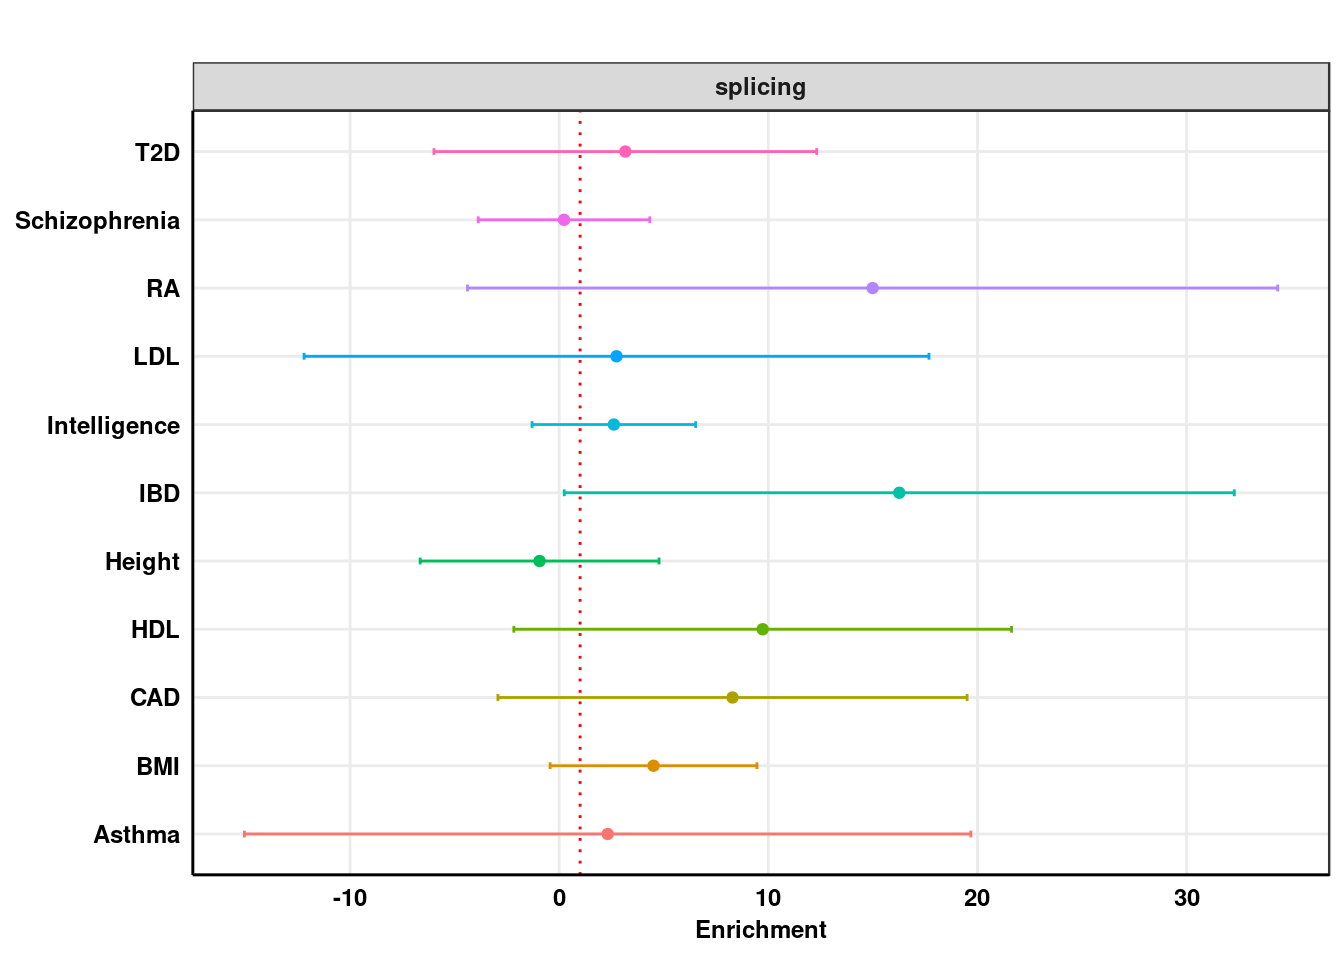
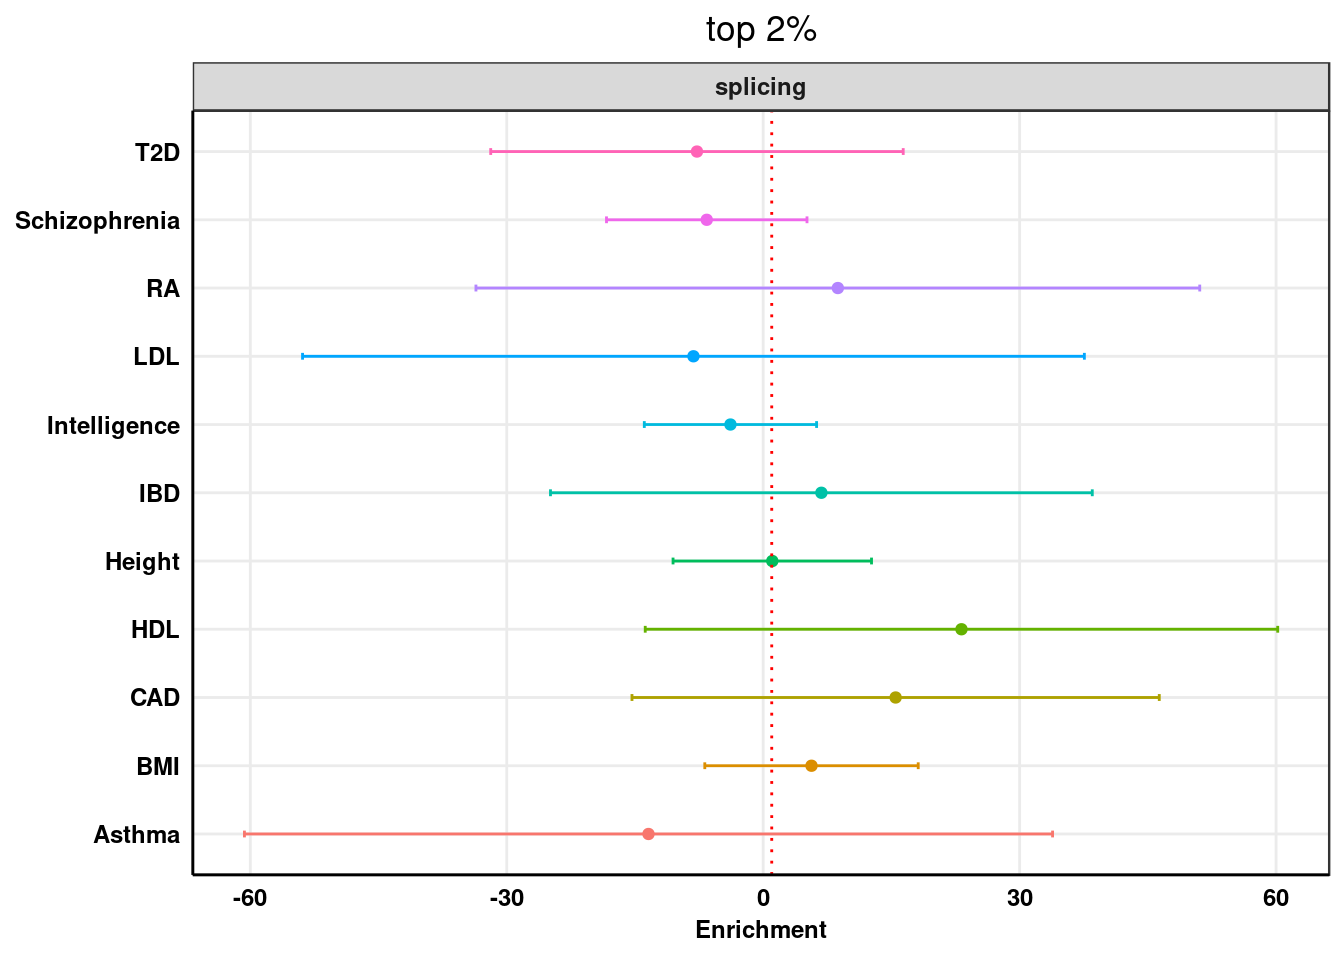
Build site.

diff --git a/docs/sldsc.html b/docs/sldsc.html
@@ -353,7 +353,7 @@ div.tocify {
 <div class="tab-content">
 <div id="summary" class="tab-pane fade in active">
 <p>
-<strong>Last updated:</strong> 2020-08-22
+<strong>Last updated:</strong> 2020-09-08
 </p>
 <p>
 <strong>Checks:</strong> <span class="glyphicon glyphicon-ok text-success" aria-hidden="true"></span> 7 <span class="glyphicon glyphicon-exclamation-sign text-danger" aria-hidden="true"></span> 0
@@ -444,16 +444,16 @@ This reproducible <a href="http://rmarkdown.rstudio.com">R Markdown</a> analysis
 <div class="panel panel-default">
 <div class="panel-heading">
 <p class="panel-title">
-<a data-toggle="collapse" data-parent="#workflowr-checks" href="#strongRepositoryversionstrongahrefhttpsgithubcomcdu8sldscsplicingtree905768d3e4973ebbc81ab7d1755184e7ccb97b9dtargetblank905768da"> <span class="glyphicon glyphicon-ok text-success" aria-hidden="true"></span> <strong>Repository version:</strong> <a href="https://github.com/cdu8/sldsc_splicing/tree/905768d3e4973ebbc81ab7d1755184e7ccb97b9d" target="_blank">905768d</a> </a>
+<a data-toggle="collapse" data-parent="#workflowr-checks" href="#strongRepositoryversionstrongahrefhttpsgithubcomcdu8sldscsplicingtreedc48f7040b5e7a2f9f46de739e7020160c7e859etargetblankdc48f70a"> <span class="glyphicon glyphicon-ok text-success" aria-hidden="true"></span> <strong>Repository version:</strong> <a href="https://github.com/cdu8/sldsc_splicing/tree/dc48f7040b5e7a2f9f46de739e7020160c7e859e" target="_blank">dc48f70</a> </a>
 </p>
 </div>
[2 lines of base64/hex data omitted]
 <div class="panel-body">
 <p>
 Great! You are using Git for version control. Tracking code development and connecting the code version to the results is critical for reproducibility.
 </p>
 <p>
-The results in this page were generated with repository version <a href="https://github.com/cdu8/sldsc_splicing/tree/905768d3e4973ebbc81ab7d1755184e7ccb97b9d" target="_blank">905768d</a>. See the <em>Past versions</em> tab to see a history of the changes made to the R Markdown and HTML files.
+The results in this page were generated with repository version <a href="https://github.com/cdu8/sldsc_splicing/tree/dc48f7040b5e7a2f9f46de739e7020160c7e859e" target="_blank">dc48f70</a>. See the <em>Past versions</em> tab to see a history of the changes made to the R Markdown and HTML files.
 </p>
 <p>
 Note that you need to be careful to ensure that all relevant files for the analysis have been committed to Git prior to generating the results (you can use <code>wflow_publish</code> or <code>wflow_git_commit</code>). workflowr only checks the R Markdown file, but you know if there are other scripts or data files that it depends on. Below is the status of the Git repository when the results were generated:
@@ -499,6 +499,40 @@ Message
 </tr>
 </thead>
 <tbody>
+<tr>
+<td>
+Rmd
+</td>
+<td>
+<a href="https://github.com/cdu8/sldsc_splicing/blob/dc48f7040b5e7a2f9f46de739e7020160c7e859e/analysis/sldsc.Rmd" target="_blank">dc48f70</a>
+</td>
+<td>
+cdu8
+</td>
+<td>
+2020-09-08
+</td>
+<td>
+wflow_publish(c(“analysis/sldsc.Rmd”))
+</td>
+</tr>
+<tr>
+<td>
+html
+</td>
+<td>
+<a href="https://rawcdn.githack.com/cdu8/sldsc_splicing/b91979a089188e4d3829a2b36543f970c2377bc7/docs/sldsc.html" target="_blank">b91979a</a>
+</td>
+<td>
+cdu8
+</td>
+<td>
+2020-08-22
+</td>
+<td>
+Build site.
+</td>
+</tr>
 <tr>
 <td>
 Rmd
@@ -661,7 +695,7 @@ S-LDSC analysis
 </div>
 <div id="introduction" class="section level2">
 <h2><strong>Introduction</strong></h2>
-<p>I ran S-LDSC on SPIDEX splicing annotations. The SPIDEX database was downloaded from ANNOVAR, and SNPs with a dpsi_zscore of &gt;= 1.645 (p-value of 0.05) were selected. I did this for 11 GWAS: Asthma, BMI, CAD, HDL, Height, Intelligence, IBD, LDL, RA, Schizophrenia, and Type II Diabetes. I used BaselineLD v1.1 for S-LDSC analysis.</p>
+<p>I ran S-LDSC on SPIDEX splicing annotations. The SPIDEX database was downloaded from ANNOVAR. I did this for 11 GWAS: Asthma, BMI, CAD, HDL, Height, Intelligence, IBD, LDL, RA, Schizophrenia, and Type II Diabetes. I used BaselineLD v1.1 for S-LDSC analysis.</p>
 <p>SPIDEX splicing annotations are located here: <code>RCC:/project2/xinhe/cdu/ldsc/annot/spidex</code> All GWAS in sumstats format are located here: <code>RCC:/project2/xinhe/cdu/GWAS/ldsc_format</code></p>
 <pre class="r"><code>annot_list &lt;- c(&quot;splicing&quot;)
 trait_name_list &lt;- c(&quot;Asthma&quot;, &quot;BMI&quot;,&quot;CAD&quot;,&quot;HDL&quot;,&quot;Height&quot;,&quot;IBD&quot;,&quot;Intelligence&quot;,&quot;LDL&quot;,&quot;RA&quot;,&quot;Schizophrenia&quot;,&quot;T2D&quot;)</code></pre>
@@ -760,25 +794,34 @@ combine_sldsc_traits &lt;- function(trait_name_list, dir_results, baseline, topX
 dir_results &lt;- &quot;/project2/xinhe/cdu/ldsc/results/splicing&quot;
 
 #top5
-result_sLDSC_top5 &lt;- combine_sldsc_traits(trait_name_list, dir_results, baseline, &quot;top5&quot;, &quot;hg19_spidex_0.05&quot;)
+result_sLDSC_top5 &lt;- combine_sldsc_traits(trait_name_list, dir_results, baseline, &quot;top5_filt&quot;, &quot;hg19_spidex_0.05_filt&quot;)
 result_sLDSC_top5$Category &lt;- factor(result_sLDSC_top5$Category, levels = rev(annot_list) )
 result_sLDSC_top5$Color &lt;- factor(result_sLDSC_top5$Disease, levels = trait_name_list)
 
 #top2
-result_sLDSC_top2 &lt;- combine_sldsc_traits(trait_name_list, dir_results, baseline, &quot;top2&quot;, &quot;hg19_spidex_0.02&quot;)
+result_sLDSC_top2 &lt;- combine_sldsc_traits(trait_name_list, dir_results, baseline, &quot;top2_filt&quot;, &quot;hg19_spidex_0.02_filt&quot;)
 result_sLDSC_top2$Category &lt;- factor(result_sLDSC_top2$Category, levels = rev(annot_list) )
 result_sLDSC_top2$Color &lt;- factor(result_sLDSC_top2$Disease, levels = trait_name_list)
 
 #top10
-result_sLDSC_top10 &lt;- combine_sldsc_traits(trait_name_list, dir_results, baseline, &quot;top10&quot;, &quot;hg19_spidex_0.10&quot;)
+result_sLDSC_top10 &lt;- combine_sldsc_traits(trait_name_list, dir_results, baseline, &quot;top10_filt&quot;, &quot;hg19_spidex_0.10_filt&quot;)
 result_sLDSC_top10$Category &lt;- factor(result_sLDSC_top10$Category, levels = rev(annot_list) )
 result_sLDSC_top10$Color &lt;- factor(result_sLDSC_top10$Disease, levels = trait_name_list)</code></pre>
-<div id="top-5-of-spidex-snps" class="section level3">
-<h3>Top 5% of SPIDEX SNPs</h3>
-<pre class="r"><code>DT::datatable(format(result_sLDSC_top5[,1:8], digits = 2), options = list(scrollX = TRUE, keys = TRUE),rownames = F)</code></pre>
+<div id="data-tables" class="section level3">
+<h3>Data Tables</h3>
+<pre class="r"><code>DT::datatable(format(result_sLDSC_top2[,1:8], digits = 2), options = list(scrollX = TRUE, keys = TRUE),rownames = F, caption = &#39;Table 1. Top 2%&#39;)</code></pre>
 <div id="htmlwidget-578d03fe88b24cf1b205" style="width:100%;height:auto;" class="datatables html-widget"></div>
-<script type="application/json" data-for="htmlwidget-578d03fe88b24cf1b205">{"x":{"filter":"none","data":[["Asthma","BMI","CAD","HDL","Height","IBD","Intelligence","LDL","RA","Schizophrenia","T2D"],["splicing","splicing","splicing","splicing","splicing","splicing","splicing","splicing","splicing","splicing","splicing"],["0.005","0.005","0.005","0.005","0.005","0.005","0.005","0.005","0.005","0.005","0.005"],[" 0.0115"," 0.0224"," 0.0412"," 0.0484","-0.0047"," 0.0809"," 0.0130"," 0.0136"," 0.0746"," 0.0012"," 0.0157"],["0.0441","0.0126","0.0285","0.0302","0.0145","0.0407","0.0099","0.0379","0.0492","0.0104","0.0232"],[" 2.32"," 4.51"," 8.29"," 9.73","-0.94","16.26"," 2.61"," 2.74","14.99"," 0.23"," 3.16"],["8.9","2.5","5.7","6.1","2.9","8.2","2.0","7.6","9.9","2.1","4.7"],["0.881","0.164","0.205","0.157","0.508","0.061","0.420","0.815","0.154","0.714","0.642"]],"container":"<table class=\"display\">\n  <thead>\n    <tr>\n      <th>Disease<\/th>\n      <th>Category<\/th>\n      <th>Prop._SNPs<\/th>\n      <th>Prop._h2<\/th>\n      <th>Prop._h2_std_error<\/th>\n      <th>Enrichment<\/th>\n      <th>Enrichment_std_error<\/th>\n      <th>Enrichment_p<\/th>\n    <\/tr>\n  <\/thead>\n<\/table>","options":{"scrollX":true,"keys":true,"order":[],"autoWidth":false,"orderClasses":false}},"evals":[],"jsHooks":[]}</script>
-<pre class="r"><code>ggplot_enrichment(result_sLDSC_top5, title = &quot;&quot;)</code></pre>
+<script type="application/json" data-for="htmlwidget-578d03fe88b24cf1b205">{"x":{"filter":"none","caption":"<caption>Table 1. Top 2%<\/caption>","data":[["Asthma","BMI","CAD","HDL","Height","IBD","Intelligence","LDL","RA","Schizophrenia","T2D"],["splicing","splicing","splicing","splicing","splicing","splicing","splicing","splicing","splicing","splicing","splicing"],["0.0012","0.0012","0.0012","0.0012","0.0012","0.0012","0.0012","0.0012","0.0012","0.0012","0.0012"],["-0.0160"," 0.0067"," 0.0185"," 0.0277"," 0.0013"," 0.0081","-0.0046","-0.0097"," 0.0104","-0.0079","-0.0092"],["0.0288","0.0076","0.0188","0.0225","0.0071","0.0193","0.0061","0.0278","0.0258","0.0071","0.0147"],["-13.4","  5.7"," 15.5"," 23.2","  1.1","  6.8"," -3.8"," -8.2","  8.7"," -6.6"," -7.7"],["24.1"," 6.4","15.7","18.9"," 5.9","16.2"," 5.1","23.3","21.6"," 6.0","12.3"],["0.55","0.47","0.36","0.25","0.99","0.72","0.35","0.69","0.72","0.20","0.48"]],"container":"<table class=\"display\">\n  <thead>\n    <tr>\n      <th>Disease<\/th>\n      <th>Category<\/th>\n      <th>Prop._SNPs<\/th>\n      <th>Prop._h2<\/th>\n      <th>Prop._h2_std_error<\/th>\n      <th>Enrichment<\/th>\n      <th>Enrichment_std_error<\/th>\n      <th>Enrichment_p<\/th>\n    <\/tr>\n  <\/thead>\n<\/table>","options":{"scrollX":true,"keys":true,"order":[],"autoWidth":false,"orderClasses":false}},"evals":[],"jsHooks":[]}</script>
+<pre class="r"><code>DT::datatable(format(result_sLDSC_top5[,1:8], digits = 2), options = list(scrollX = TRUE, keys = TRUE),rownames = F, caption = &#39;Table 2. Top 5%&#39;)</code></pre>
+<div id="htmlwidget-3b4dcd290ae952b4a851" style="width:100%;height:auto;" class="datatables html-widget"></div>
+<script type="application/json" data-for="htmlwidget-3b4dcd290ae952b4a851">{"x":{"filter":"none","caption":"<caption>Table 2. Top 5%<\/caption>","data":[["Asthma","BMI","CAD","HDL","Height","IBD","Intelligence","LDL","RA","Schizophrenia","T2D"],["splicing","splicing","splicing","splicing","splicing","splicing","splicing","splicing","splicing","splicing","splicing"],["0.0029","0.0029","0.0029","0.0029","0.0029","0.0029","0.0029","0.0029","0.0029","0.0029","0.0029"],["-0.0331"," 0.0190"," 0.0335"," 0.0604","-0.0052"," 0.0626"," 0.0011"," 0.0267"," 0.0610","-0.0014","-0.0034"],["0.0424","0.0118","0.0245","0.0294","0.0126","0.0325","0.0085","0.0292","0.0409","0.0094","0.0212"],["-11.52","  6.62"," 11.68"," 21.03"," -1.80"," 21.81","  0.38","  9.31"," 21.23"," -0.47"," -1.19"],["14.8"," 4.1"," 8.5","10.2"," 4.4","11.3"," 3.0","10.2","14.3"," 3.3"," 7.4"],["0.396","0.173","0.214","0.064","0.524","0.066","0.835","0.405","0.157","0.653","0.767"]],"container":"<table class=\"display\">\n  <thead>\n    <tr>\n      <th>Disease<\/th>\n      <th>Category<\/th>\n      <th>Prop._SNPs<\/th>\n      <th>Prop._h2<\/th>\n      <th>Prop._h2_std_error<\/th>\n      <th>Enrichment<\/th>\n      <th>Enrichment_std_error<\/th>\n      <th>Enrichment_p<\/th>\n    <\/tr>\n  <\/thead>\n<\/table>","options":{"scrollX":true,"keys":true,"order":[],"autoWidth":false,"orderClasses":false}},"evals":[],"jsHooks":[]}</script>
+<pre class="r"><code>DT::datatable(format(result_sLDSC_top10[,1:8], digits = 2), options = list(scrollX = TRUE, keys = TRUE),rownames = F, caption = &#39;Table 3. Top 10%&#39;)</code></pre>
+<div id="htmlwidget-817a18af4cae29c47eae" style="width:100%;height:auto;" class="datatables html-widget"></div>
+<script type="application/json" data-for="htmlwidget-817a18af4cae29c47eae">{"x":{"filter":"none","caption":"<caption>Table 3. Top 10%<\/caption>","data":[["Asthma","BMI","CAD","HDL","Height","IBD","Intelligence","LDL","RA","Schizophrenia","T2D"],["splicing","splicing","splicing","splicing","splicing","splicing","splicing","splicing","splicing","splicing","splicing"],["0.0055","0.0055","0.0055","0.0055","0.0055","0.0055","0.0055","0.0055","0.0055","0.0055","0.0055"],["-0.0099"," 0.0340"," 0.0567"," 0.0449","-0.0089"," 0.0995"," 0.0080"," 0.0161"," 0.0554"," 0.0024"," 0.0198"],["0.046","0.015","0.030","0.031","0.018","0.044","0.010","0.033","0.047","0.011","0.025"],["-1.80"," 6.17","10.29"," 8.16","-1.62","18.06"," 1.45"," 2.92","10.05"," 0.44"," 3.60"],["8.3","2.6","5.4","5.6","3.3","8.0","1.9","6.0","8.5","2.1","4.5"],["0.735","0.054","0.086","0.204","0.430","0.033","0.815","0.743","0.284","0.788","0.558"]],"container":"<table class=\"display\">\n  <thead>\n    <tr>\n      <th>Disease<\/th>\n      <th>Category<\/th>\n      <th>Prop._SNPs<\/th>\n      <th>Prop._h2<\/th>\n      <th>Prop._h2_std_error<\/th>\n      <th>Enrichment<\/th>\n      <th>Enrichment_std_error<\/th>\n      <th>Enrichment_p<\/th>\n    <\/tr>\n  <\/thead>\n<\/table>","options":{"scrollX":true,"keys":true,"order":[],"autoWidth":false,"orderClasses":false}},"evals":[],"jsHooks":[]}</script>
+</div>
+<div id="enrichment-plots" class="section level3">
+<h3>Enrichment Plots</h3>
+<pre class="r"><code>ggplot_enrichment(result_sLDSC_top2, title = &quot;top 2%&quot;)</code></pre>
 <p><img src="figure/sldsc.Rmd/unnamed-chunk-5-1.png" width="672" style="display: block; margin: auto;" /></p>
 <p>
 <button type="button" class="btn btn-default btn-xs btn-workflowr btn-workflowr-fig" data-toggle="collapse" data-target="#fig-unnamed-chunk-5-1">
@@ -817,7 +860,7 @@ cdu8
 </table>
 </div>
 </div>
-<pre class="r"><code>ggplot_log2_enrichment(result_sLDSC_top5, title = &quot;&quot;)</code></pre>
+<pre class="r"><code>ggplot_enrichment(result_sLDSC_top5, title = &quot;top 5%&quot;)</code></pre>
 <p><img src="figure/sldsc.Rmd/unnamed-chunk-5-2.png" width="672" style="display: block; margin: auto;" /></p>
 <p>
 <button type="button" class="btn btn-default btn-xs btn-workflowr btn-workflowr-fig" data-toggle="collapse" data-target="#fig-unnamed-chunk-5-2">
@@ -856,182 +899,17 @@ cdu8
 </table>
 </div>
 </div>
+<pre class="r"><code>ggplot_enrichment(result_sLDSC_top10, title = &quot;top 10%&quot;)</code></pre>
+<p><img src="figure/sldsc.Rmd/unnamed-chunk-5-3.png" width="672" style="display: block; margin: auto;" /></p>
 </div>
-<div id="top-2-of-spidex-snps" class="section level3">
-<h3>Top 2% of SPIDEX SNPs</h3>
-<pre class="r"><code>DT::datatable(format(result_sLDSC_top2[,1:8], digits = 2), options = list(scrollX = TRUE, keys = TRUE),rownames = F)</code></pre>
-<div id="htmlwidget-3b4dcd290ae952b4a851" style="width:100%;height:auto;" class="datatables html-widget"></div>
-<script type="application/json" data-for="htmlwidget-3b4dcd290ae952b4a851">{"x":{"filter":"none","data":[["Asthma","BMI","CAD","HDL","Height","IBD","Intelligence","LDL","RA","Schizophrenia","T2D"],["splicing","splicing","splicing","splicing","splicing","splicing","splicing","splicing","splicing","splicing","splicing"],["0.0022","0.0022","0.0022","0.0022","0.0022","0.0022","0.0022","0.0022","0.0022","0.0022","0.0022"],[" 0.00089"," 0.00878"," 0.02319"," 0.02912","-0.00638"," 0.02755"," 0.00317","-0.00746","-0.00518","-0.00420"," 0.00545"],["0.0342","0.0101","0.0216","0.0262","0.0095","0.0273","0.0076","0.0352","0.0310","0.0088","0.0185"],[" 0.4"," 3.9","10.4","13.1","-2.9","12.4"," 1.4","-3.4","-2.3","-1.9"," 2.4"],["15.4"," 4.5"," 9.7","11.8"," 4.3","12.3"," 3.4","15.8","13.9"," 3.9"," 8.3"],["0.97","0.52","0.33","0.31","0.37","0.35","0.90","0.78","0.81","0.46","0.86"]],"container":"<table class=\"display\">\n  <thead>\n    <tr>\n      <th>Disease<\/th>\n      <th>Category<\/th>\n      <th>Prop._SNPs<\/th>\n      <th>Prop._h2<\/th>\n      <th>Prop._h2_std_error<\/th>\n      <th>Enrichment<\/th>\n      <th>Enrichment_std_error<\/th>\n      <th>Enrichment_p<\/th>\n    <\/tr>\n  <\/thead>\n<\/table>","options":{"scrollX":true,"keys":true,"order":[],"autoWidth":false,"orderClasses":false}},"evals":[],"jsHooks":[]}</script>
-<pre class="r"><code>ggplot_enrichment(result_sLDSC_top2, title = &quot;&quot;)</code></pre>
-<p><img src="figure/sldsc.Rmd/unnamed-chunk-7-1.png" width="672" style="display: block; margin: auto;" /></p>
-<p>
-<button type="button" class="btn btn-default btn-xs btn-workflowr btn-workflowr-fig" data-toggle="collapse" data-target="#fig-unnamed-chunk-7-1">
-Past versions of unnamed-chunk-7-1.png
-</button>
-</p>
-<div id="fig-unnamed-chunk-7-1" class="collapse">
-<div class="table-responsive">
-<table class="table table-condensed table-hover">
-<thead>
-<tr>
-<th>
-Version
-</th>
-<th>
-Author
-</th>
-<th>
-Date
-</th>
-</tr>
-</thead>
-<tbody>
-<tr>
-<td>
-<a href="https://github.com/cdu8/sldsc_splicing/blob/dab596193dc972eba58aed544dbd19cd7bd3bbbc/docs/figure/sldsc.Rmd/unnamed-chunk-7-1.png" target="_blank">dab5961</a>
-</td>
-<td>
-cdu8
-</td>
-<td>
-2020-08-22
-</td>
-</tr>
-</tbody>
-</table>
-</div>
-</div>
-<pre class="r"><code>ggplot_log2_enrichment(result_sLDSC_top2, title = &quot;&quot;)</code></pre>
-<p><img src="figure/sldsc.Rmd/unnamed-chunk-7-2.png" width="672" style="display: block; margin: auto;" /></p>
-<p>
-<button type="button" class="btn btn-default btn-xs btn-workflowr btn-workflowr-fig" data-toggle="collapse" data-target="#fig-unnamed-chunk-7-2">
-Past versions of unnamed-chunk-7-2.png
-</button>
-</p>
-<div id="fig-unnamed-chunk-7-2" class="collapse">
-<div class="table-responsive">
-<table class="table table-condensed table-hover">
-<thead>
-<tr>
-<th>
-Version
-</th>
-<th>
-Author
-</th>
-<th>
-Date
-</th>
-</tr>
-</thead>
-<tbody>
-<tr>
-<td>
-<a href="https://github.com/cdu8/sldsc_splicing/blob/dab596193dc972eba58aed544dbd19cd7bd3bbbc/docs/figure/sldsc.Rmd/unnamed-chunk-7-2.png" target="_blank">dab5961</a>
-</td>
-<td>
-cdu8
-</td>
-<td>
-2020-08-22
-</td>
-</tr>
-</tbody>
-</table>
-</div>
-</div>
-</div>
-<div id="top-10-of-spidex-snps" class="section level3">
-<h3>Top 10% of SPIDEX SNPs</h3>
-<pre class="r"><code>DT::datatable(format(result_sLDSC_top10[,1:8], digits = 2), options = list(scrollX = TRUE, keys = TRUE),rownames = F)</code></pre>
-<div id="htmlwidget-817a18af4cae29c47eae" style="width:100%;height:auto;" class="datatables html-widget"></div>
-<script type="application/json" data-for="htmlwidget-817a18af4cae29c47eae">{"x":{"filter":"none","data":[["Asthma","BMI","CAD","HDL","Height","IBD","Intelligence","LDL","RA","Schizophrenia","T2D"],["splicing","splicing","splicing","splicing","splicing","splicing","splicing","splicing","splicing","splicing","splicing"],["0.0087","0.0087","0.0087","0.0087","0.0087","0.0087","0.0087","0.0087","0.0087","0.0087","0.0087"],["0.0033","0.0456","0.0694","0.0465","0.0102","0.1400","0.0135","0.0427","0.0878","0.0170","0.0079"],["0.051","0.018","0.033","0.036","0.017","0.055","0.011","0.038","0.059","0.014","0.026"],[" 0.38"," 5.23"," 7.96"," 5.33"," 1.17","16.05"," 1.54"," 4.89","10.06"," 1.95"," 0.91"],["5.9","2.0","3.8","4.1","2.0","6.3","1.3","4.4","6.7","1.6","3.0"],["0.916","0.040","0.066","0.285","0.932","0.016","0.677","0.369","0.176","0.560","0.976"]],"container":"<table class=\"display\">\n  <thead>\n    <tr>\n      <th>Disease<\/th>\n      <th>Category<\/th>\n      <th>Prop._SNPs<\/th>\n      <th>Prop._h2<\/th>\n      <th>Prop._h2_std_error<\/th>\n      <th>Enrichment<\/th>\n      <th>Enrichment_std_error<\/th>\n      <th>Enrichment_p<\/th>\n    <\/tr>\n  <\/thead>\n<\/table>","options":{"scrollX":true,"keys":true,"order":[],"autoWidth":false,"orderClasses":false}},"evals":[],"jsHooks":[]}</script>
-<pre class="r"><code>ggplot_enrichment(result_sLDSC_top10, title = &quot;&quot;)</code></pre>
-<p><img src="figure/sldsc.Rmd/unnamed-chunk-9-1.png" width="672" style="display: block; margin: auto;" /></p>
-<p>
-<button type="button" class="btn btn-default btn-xs btn-workflowr btn-workflowr-fig" data-toggle="collapse" data-target="#fig-unnamed-chunk-9-1">
-Past versions of unnamed-chunk-9-1.png
-</button>
-</p>
-<div id="fig-unnamed-chunk-9-1" class="collapse">
-<div class="table-responsive">
-<table class="table table-condensed table-hover">
-<thead>
-<tr>
-<th>
-Version
-</th>
-<th>
-Author
-</th>
-<th>
-Date
-</th>
-</tr>
-</thead>
-<tbody>
-<tr>
-<td>
-<a href="https://github.com/cdu8/sldsc_splicing/blob/dab596193dc972eba58aed544dbd19cd7bd3bbbc/docs/figure/sldsc.Rmd/unnamed-chunk-9-1.png" target="_blank">dab5961</a>
-</td>
-<td>
-cdu8
-</td>
-<td>
-2020-08-22
-</td>
-</tr>
-</tbody>
-</table>
-</div>
-</div>
-<pre class="r"><code>ggplot_log2_enrichment(result_sLDSC_top10, title = &quot;&quot;)</code></pre>
-<p><img src="figure/sldsc.Rmd/unnamed-chunk-9-2.png" width="672" style="display: block; margin: auto;" /></p>
-<p>
-<button type="button" class="btn btn-default btn-xs btn-workflowr btn-workflowr-fig" data-toggle="collapse" data-target="#fig-unnamed-chunk-9-2">
-Past versions of unnamed-chunk-9-2.png
-</button>
-</p>
-<div id="fig-unnamed-chunk-9-2" class="collapse">
-<div class="table-responsive">
-<table class="table table-condensed table-hover">
-<thead>
-<tr>
-<th>
-Version
-</th>
-<th>
-Author
-</th>
-<th>
-Date
-</th>
-</tr>
-</thead>
-<tbody>
-<tr>
-<td>
-<a href="https://github.com/cdu8/sldsc_splicing/blob/dab596193dc972eba58aed544dbd19cd7bd3bbbc/docs/figure/sldsc.Rmd/unnamed-chunk-9-2.png" target="_blank">dab5961</a>
-</td>
-<td>
-cdu8
-</td>
-<td>
-2020-08-22
-</td>
-</tr>
-</tbody>
-</table>
-</div>
-</div>
-</div>
-<div id="comparison-between-the-three-cutoffs" class="section level3">
-<h3>Comparison between the three cutoffs</h3>
-<pre class="r"><code>library(gridExtra)
-grid.arrange(ggplot_enrichment(result_sLDSC_top5, title = &quot;top 5%&quot;), ggplot_enrichment(result_sLDSC_top2, title = &quot;top 2%&quot;), ggplot_enrichment(result_sLDSC_top10, title = &quot;top 10%&quot;), ncol=3)</code></pre>
-<p><img src="figure/sldsc.Rmd/unnamed-chunk-10-1.png" width="672" style="display: block; margin: auto;" /><img src="figure/sldsc.Rmd/unnamed-chunk-10-2.png" width="672" style="display: block; margin: auto;" /><img src="figure/sldsc.Rmd/unnamed-chunk-10-3.png" width="672" style="display: block; margin: auto;" /></p>
-<pre class="r"><code>grid.arrange(ggplot_log2_enrichment(result_sLDSC_top5, title = &quot;top 5%&quot;), ggplot_log2_enrichment(result_sLDSC_top2, title = &quot;top 2%&quot;), ggplot_log2_enrichment(result_sLDSC_top10, title = &quot;top 10%&quot;), ncol=3)</code></pre>
-<p><img src="figure/sldsc.Rmd/unnamed-chunk-10-4.png" width="672" style="display: block; margin: auto;" /><img src="figure/sldsc.Rmd/unnamed-chunk-10-5.png" width="672" style="display: block; margin: auto;" /><img src="figure/sldsc.Rmd/unnamed-chunk-10-6.png" width="672" style="display: block; margin: auto;" /></p>
+<div id="log2enrichment-plots" class="section level3">
+<h3>log2(Enrichment) Plots</h3>
+<pre class="r"><code>ggplot_log2_enrichment(result_sLDSC_top2, title = &quot;top 2%&quot;)</code></pre>
+<p><img src="figure/sldsc.Rmd/unnamed-chunk-6-1.png" width="672" style="display: block; margin: auto;" /></p>
+<pre class="r"><code>ggplot_log2_enrichment(result_sLDSC_top5, title = &quot;top 5%&quot;)</code></pre>
+<p><img src="figure/sldsc.Rmd/unnamed-chunk-6-2.png" width="672" style="display: block; margin: auto;" /></p>
+<pre class="r"><code>ggplot_log2_enrichment(result_sLDSC_top10, title = &quot;top 10%&quot;)</code></pre>
+<p><img src="figure/sldsc.Rmd/unnamed-chunk-6-3.png" width="672" style="display: block; margin: auto;" /></p>
 <br>
 <p>
 <button type="button" class="btn btn-default btn-workflowr btn-workflowr-sessioninfo" data-toggle="collapse" data-target="#workflowr-sessioninfo" style="display: block;">
@@ -1060,8 +938,7 @@ attached base packages:
 [8] base     
 
 other attached packages:
-[1] gridExtra_2.3     doParallel_1.0.14 iterators_1.0.10  foreach_1.4.4    
-[5] ggplot2_3.1.1    
+[1] doParallel_1.0.14 iterators_1.0.10  foreach_1.4.4     ggplot2_3.1.1    
 
 loaded via a namespace (and not attached):
  [1] Rcpp_1.0.4.6     compiler_3.5.1   pillar_1.3.1     later_0.7.5     
